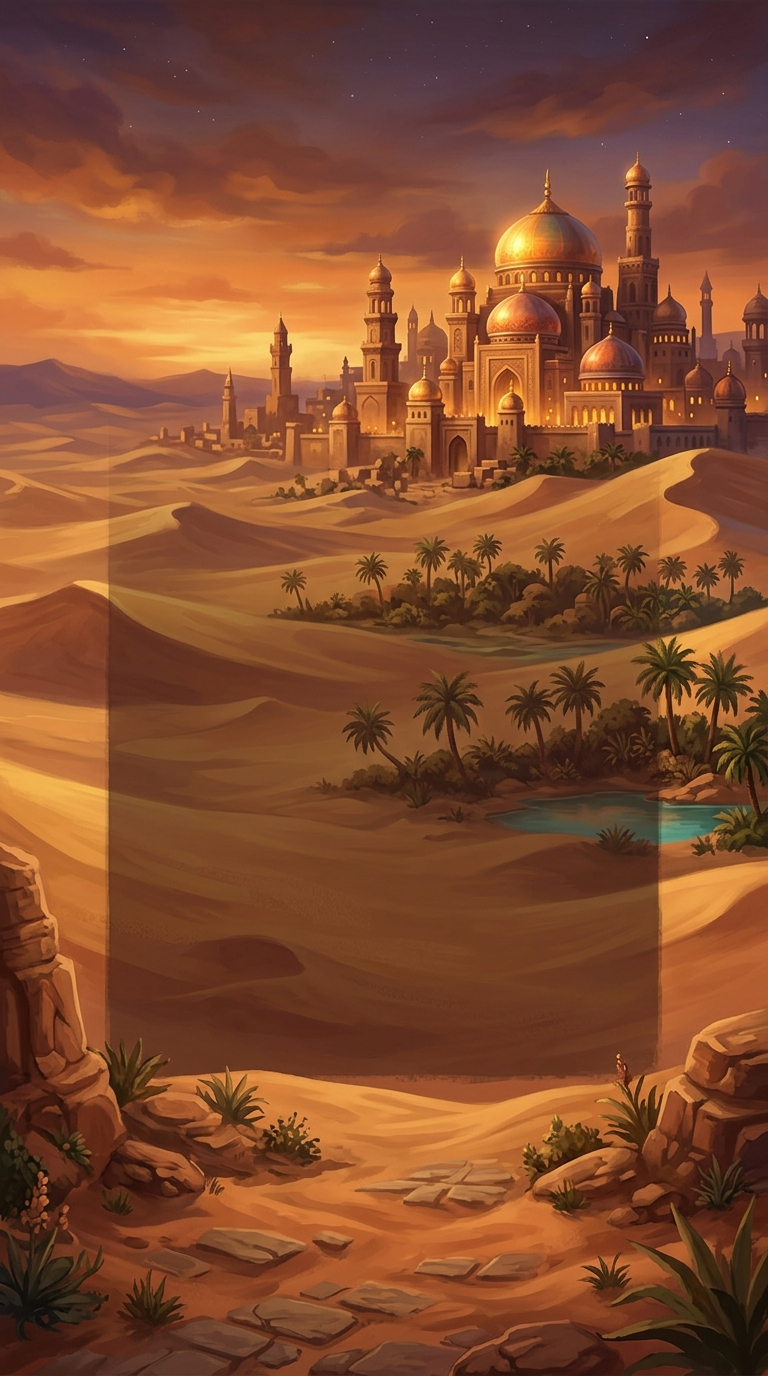
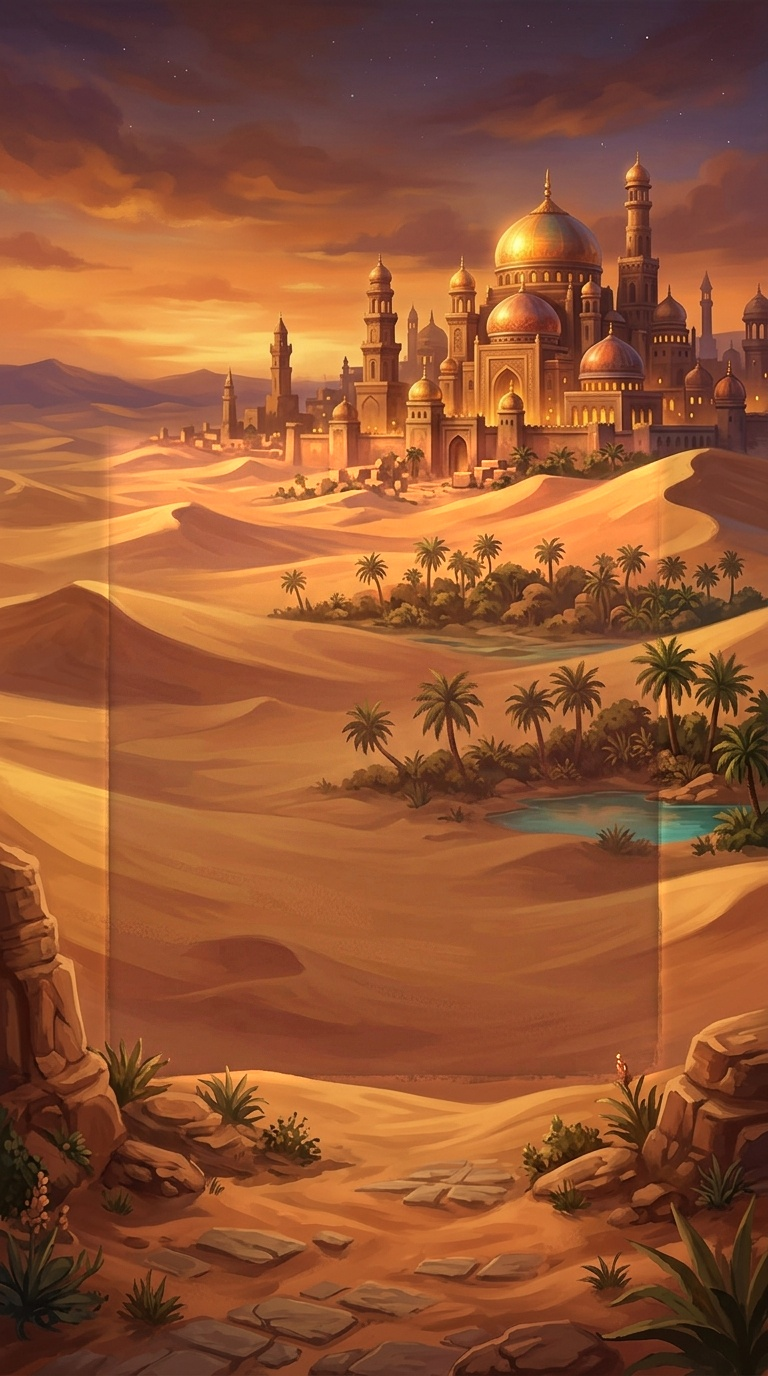
Promo video: league ranking from trophies, rival pacing, brighter Sunspire panel

diff --git a/tools/promo/render_promo.py b/tools/promo/render_promo.py
@@ -585,7 +585,8 @@ def league_scene(T):
         text(d, (W / 2, 610), T["leaguename"], 60, fill=GOLD + (255,), stroke=6, title=True)
         rise = ease_out_cubic(clamp((lt - 0.5) / 1.8))
         trophies = int(2480 + (3150 - 2480) * rise)
-        you_rank = 6 - rise * 6
+        # The row slides up only as the trophy count actually passes each player (smooth 60-trophy crossover).
+        you_rank = sum(clamp((value - trophies) / 60 + 0.5) for _, value in others)
         rows = []
         for idx, (name, value) in enumerate(others):
             slot = idx + (1 if idx >= you_rank - 0.5 else 0)
@@ -656,7 +657,7 @@ def build_timeline(rec, lang):
         # (about 2.5 s late, 9% lower) so the duel bar stays tense in every scene.
         base = 0
         for t, s in own:
-            if t <= t_ms - 2500:
+            if t <= t_ms - 1200:
                 base = s
         wobble = 0
         for t, s in opponent:
